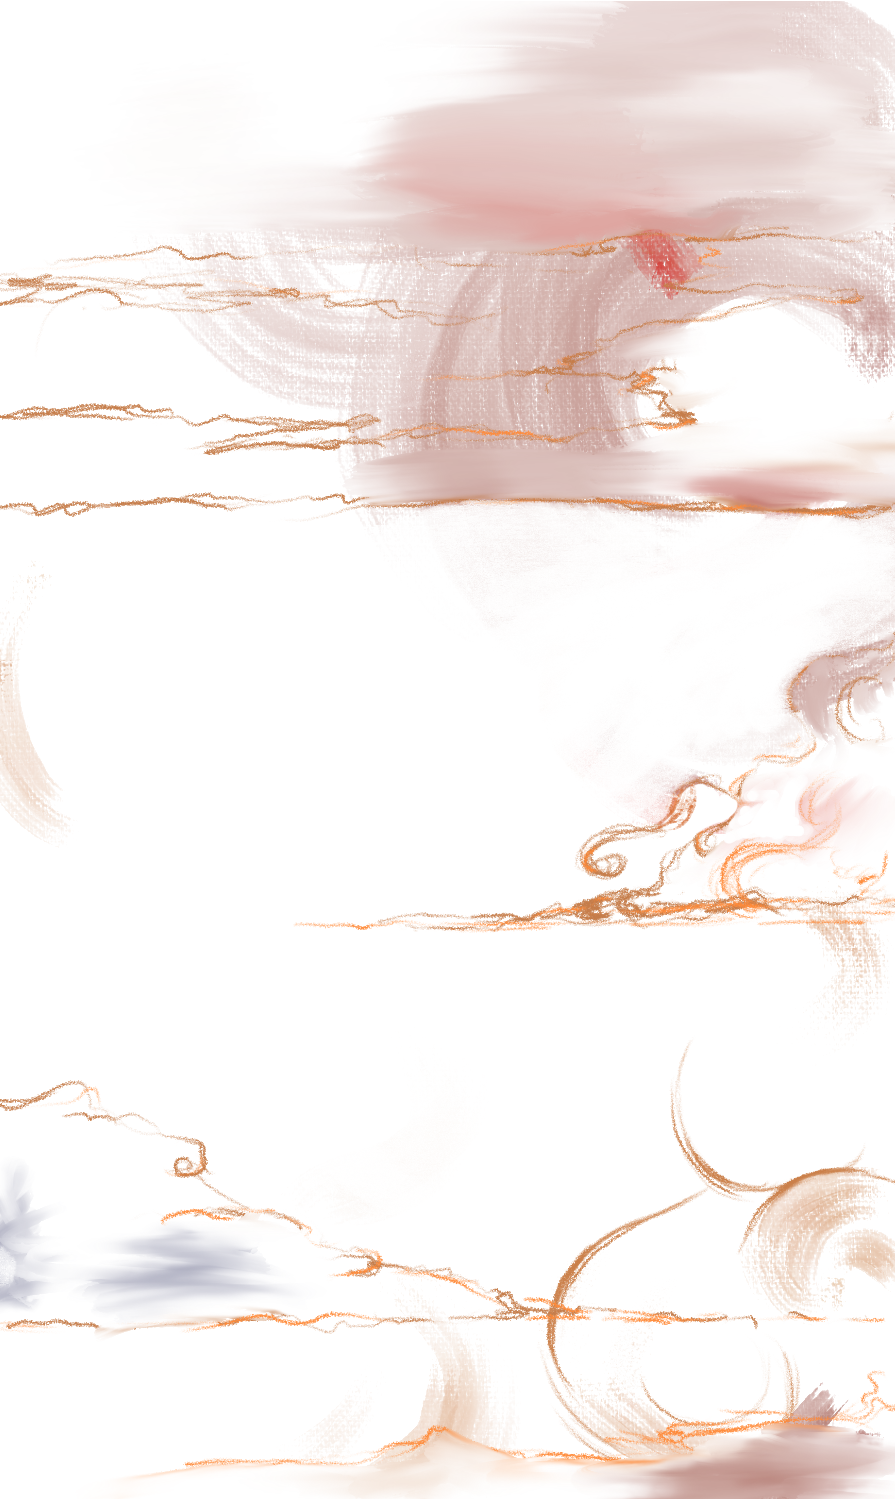
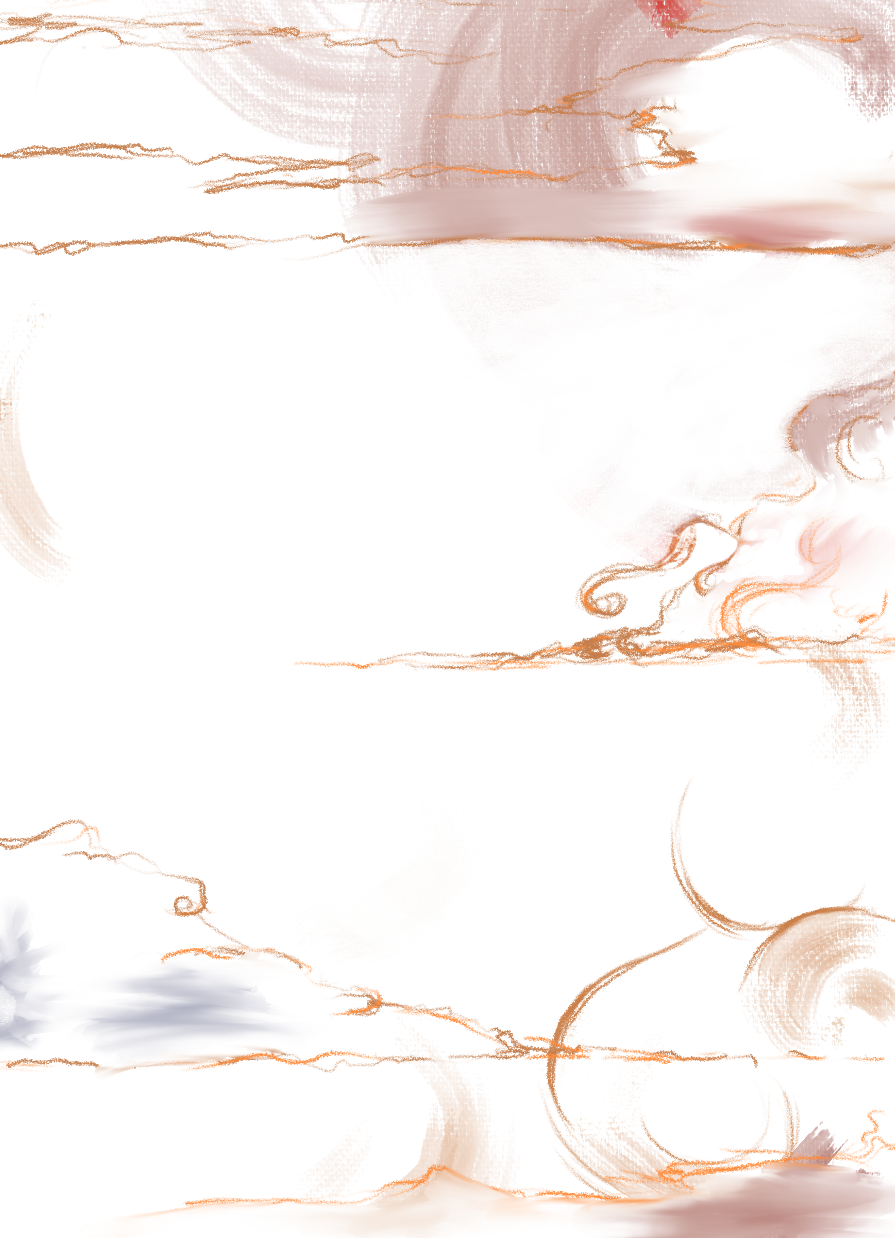
другие размеры картинок

diff --git a/src/app/pages/page-main/page-main.scss b/src/app/pages/page-main/page-main.scss
@@ -25,7 +25,7 @@
   width: 100%;
   height: auto;
 	user-select: none;
-	min-height: 1500px;
+	min-height: 1238px;
 	object-fit: cover;
 	z-index: 3;
 }
@@ -62,7 +62,7 @@
 }
 
 .inner-content {
-	top: 0;
+	top: 200px;
 	left: 50%;
 	position: absolute;
 	display: flow-root;
@@ -73,7 +73,7 @@
 	margin: 0 auto;
 	z-index: 1;
 	padding: 1rem;
-	transform: translate(-50%, 50%);
+	transform: translate(-50%, 0);
 }
 
 .inner-content::before {
